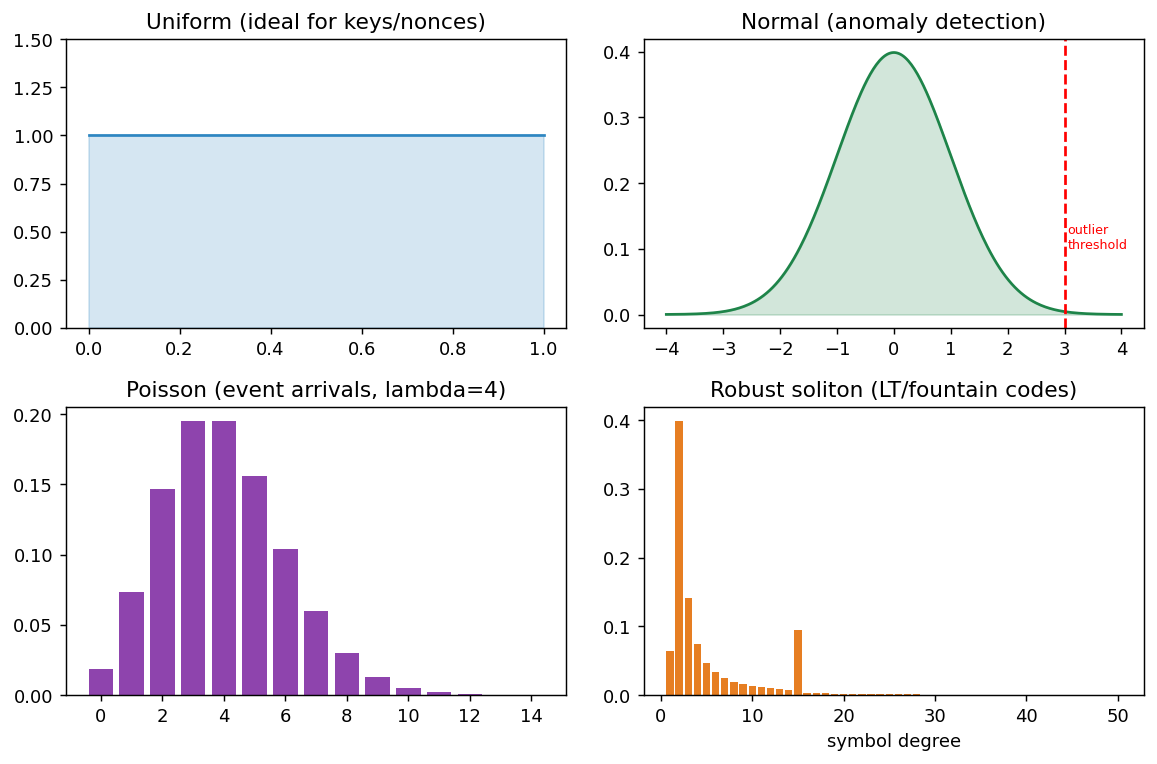
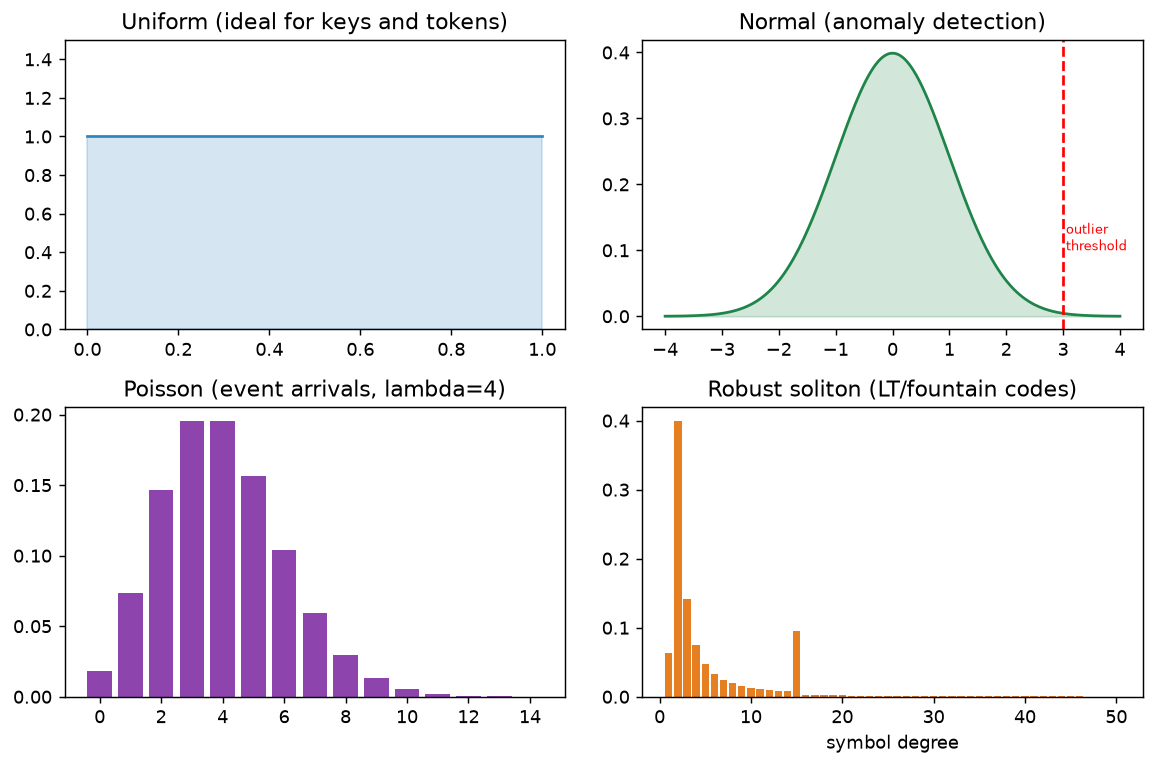
Ch5 and Ch17: fix two older overstatements on insurance and nonces
Section 5.7 twice said insurance never transfers reputational harm. Some
cyber policies pay costs that follow reputational damage, such as crisis
communications or lost profits, so both sentences now say the loss of trust
itself and, usually, legal accountability stay with the organization.

Section 17.7 and the Section 17.6 figure called the uniform distribution the
ideal for nonces; counter nonces only need to never repeat, so they now say
keys, tokens and randomly generated nonces. The figure was regenerated from
its own code cell. Word counts refreshed; SESSION_CHANGES updated.

Claude-Session: https://claude.ai/code/session_01ShEA6SZzxZywyuwrmSxsoZ

diff --git a/chapters/appendix_g/appendix_g.md b/chapters/appendix_g/appendix_g.md
@@ -14,7 +14,7 @@ Last generated: 2026-10-09.
 | Chapter 2: Cryptography | 37,879 | 3,066 | 75.8 |
 | Chapter 3: Networking and Network Attacks | 17,033 | 374 | 34.1 |
 | Chapter 4: Social Engineering and the Human Element | 7,647 | 203 | 15.3 |
-| Chapter 5: Risk Management | 16,964 | 696 | 33.9 |
+| Chapter 5: Risk Management | 17,001 | 696 | 34.0 |
 | Chapter 6: Penetration Testing Methodology | 9,787 | 265 | 19.6 |
 | Chapter 7: Reconnaissance and Open-Source Intelligence | 7,605 | 464 | 15.2 |
 | Chapter 8: Scanning and Enumeration | 7,242 | 816 | 14.5 |
@@ -26,7 +26,7 @@ Last generated: 2026-10-09.
 | Chapter 14: Incident Response | 9,786 | 828 | 19.6 |
 | Chapter 15: Malware Analysis | 41,509 | 423 | 83.0 |
 | Chapter 16: Capture the Flag and Competitive Security | 8,100 | 366 | 16.2 |
-| Chapter 17: Emerging Threats and Future Challenges | 21,795 | 1,569 | 43.6 |
+| Chapter 17: Emerging Threats and Future Challenges | 21,798 | 1,571 | 43.6 |
 | Chapter 18: Privacy, Law, and Information Governance | 7,069 | 387 | 14.1 |
 | Chapter 19: Security Governance, Policy, and Culture | 13,598 | 482 | 27.2 |
 | Chapter 20: Industrial Control Systems and OT Security | 13,679 | 442 | 27.4 |
@@ -40,7 +40,7 @@ Last generated: 2026-10-09.
 | Appendix I: Protocol Security Reference | 4,073 | 0 | 8.1 |
 | Appendix J: Adversary Models | 3,758 | 0 | 7.5 |
 | Appendix K: Course Materials and Sample Assignments | 2,408 | 0 | 4.8 |
-| **TOTAL** | **332,580** | **13,990** | **665** |
+| **TOTAL** | **332,620** | **13,992** | **665** |
 
 ## Detailed Word Count by Section
 
@@ -280,7 +280,7 @@ Last generated: 2026-10-09.
 
 ### Chapter 5: Risk Management
 
-*16,964 markdown words (33.9 pages); 696 code words.*
+*17,001 markdown words (34.0 pages); 696 code words.*
 
 | Section | Words |
 |---|---:|
@@ -294,7 +294,7 @@ Last generated: 2026-10-09.
 |     A Worked Risk Register | 286 |
 | 5.5 Qualitative Risk Assessment | 508 |
 | 5.6 Quantitative Risk Assessment | 722 |
-| 5.7 Risk Treatment | 891 |
+| 5.7 Risk Treatment | 928 |
 |     A Worked Analogy: The Skateboard and the Scraped Knee | 2,852 |
 | 5.8 Threat Modeling | 782 |
 | 5.9 Risk Frameworks and Standards | 329 |
@@ -1097,7 +1097,7 @@ Last generated: 2026-10-09.
 
 ### Chapter 17: Emerging Threats and Future Challenges
 
-*21,795 markdown words (43.6 pages); 1,569 code words.*
+*21,798 markdown words (43.6 pages); 1,571 code words.*
 
 | Section | Words |
 |---|---:|
@@ -1122,7 +1122,7 @@ Last generated: 2026-10-09.
 |     Applied Privacy and Trust Systems | 851 |
 | 17.5 Anomaly Detection Across Domains | 271 |
 | 17.6 Modeling, Simulation, and Control for Security | 275 |
-| 17.7 Probability Distributions in Security | 141 |
+| 17.7 Probability Distributions in Security | 144 |
 |     Four Distributions from Everyday Life | 3,303 |
 |     A Specialized Case: Soliton Distributions in Fountain Codes | 178 |
 |     Exercises | 236 |

diff --git a/scripts/SESSION_CHANGES.md b/scripts/SESSION_CHANGES.md
@@ -414,9 +414,12 @@ condition; and answer letters rotated so the new questions are not all B.
 
 ### Still left for you
 
-- The existing Section 5.7 text twice says insurance never transfers reputational harm; some cyber policies
-  pay for profits lost to reputational damage or for crisis communications, so you may want to qualify it.
-- The existing first paragraph of Section 17.7 calls the uniform distribution the ideal for keys and nonces;
-  counter-based nonces only need to never repeat.
 - The Chapter 5 answer key leans toward B for the original questions (10 of 15).
 - The DFA shares change every quarter; refresh the 2026 Q2 figures in Section 17.7 when you next revise.
+
+Follow-up the same day: two older passages had the same overstatements the review caught in the new text, and
+were fixed. Section 5.7 twice said insurance never transfers reputational harm; it now says some policies pay
+costs that follow reputational damage (crisis communications, lost profits), but the loss of trust itself and,
+usually, legal accountability stay with the organization. The opening of Section 17.7 and the Section 17.6
+figure called the uniform distribution the ideal for nonces; they now say keys, tokens and randomly generated
+nonces, and assets/figures/ch17_distributions.png was regenerated from its own code cell with the new title.

diff --git a/intro.md b/intro.md
@@ -13,7 +13,7 @@
 City University of New York\
 ORCID: https://orcid.org/0000-0001-6374-7249
 
-*Last updated on 10/08/2026 at 22:38:11 EDT*
+*Last updated on 10/08/2026 at 22:53:31 EDT*
 
 ---
 
